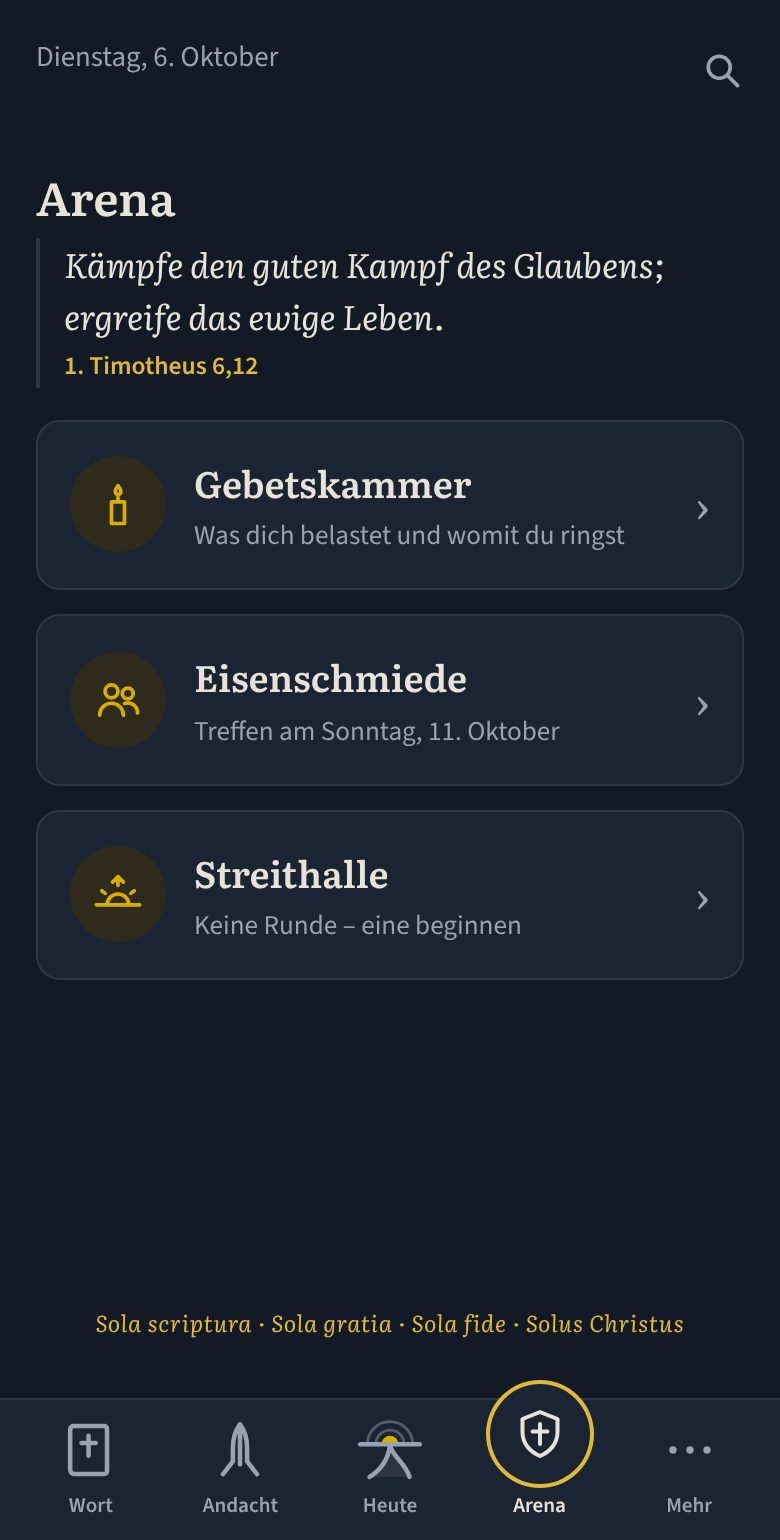
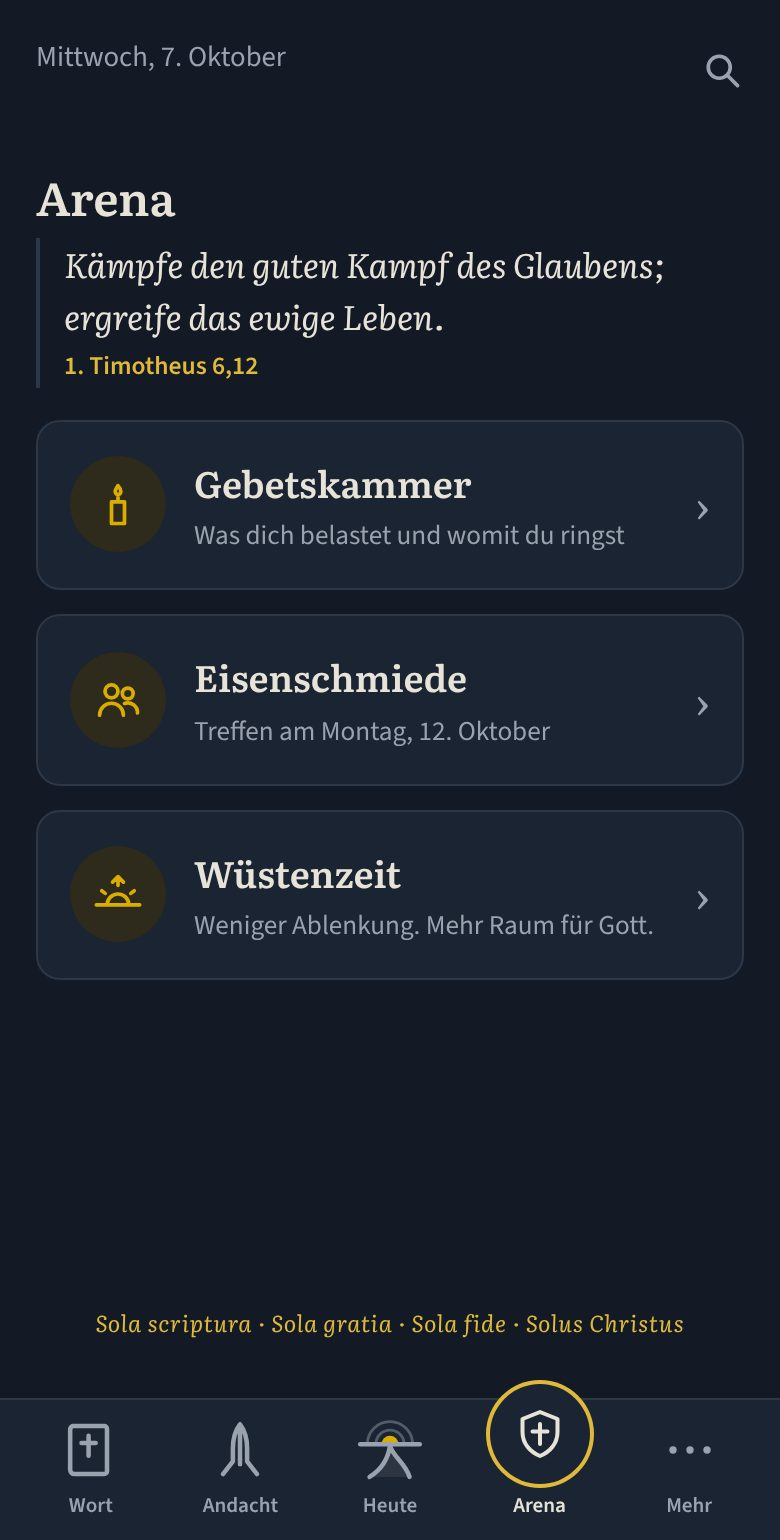
Arena-Bildschirmfoto mit der Wüstenzeit statt der Streithalle
Hell und dunkel neu aus der Demo der App (0.39.0), Beschreibung angepasst.

Claude-Session: https://claude.ai/code/session_01NGhSY3s96ugJCTyZ5Jn2po

diff --git a/index.html b/index.html
@@ -92,7 +92,7 @@
         </picture>
         <picture>
           <source srcset="bilder/bildschirmfoto-2-dunkel.jpg" media="(prefers-color-scheme: dark)">
-          <img src="bilder/bildschirmfoto-2.jpg" alt="Henoch, Seite „Arena“: Gebetskammer, Eisenschmiede und Streithalle" width="780" height="1540" loading="lazy">
+          <img src="bilder/bildschirmfoto-2.jpg" alt="Henoch, Seite „Arena“: Gebetskammer, Eisenschmiede und Wüstenzeit" width="780" height="1540" loading="lazy">
         </picture>
         <picture>
           <source srcset="bilder/bildschirmfoto-3-dunkel.jpg" media="(prefers-color-scheme: dark)">
